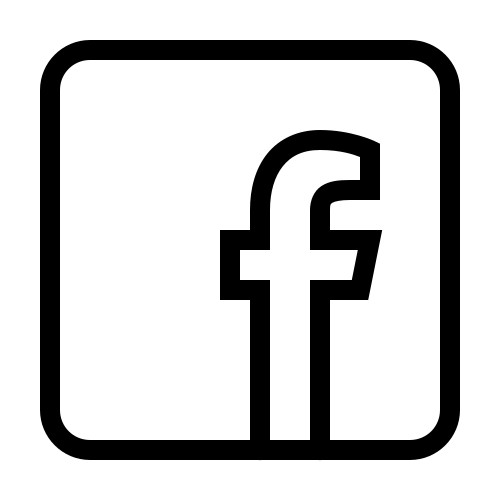
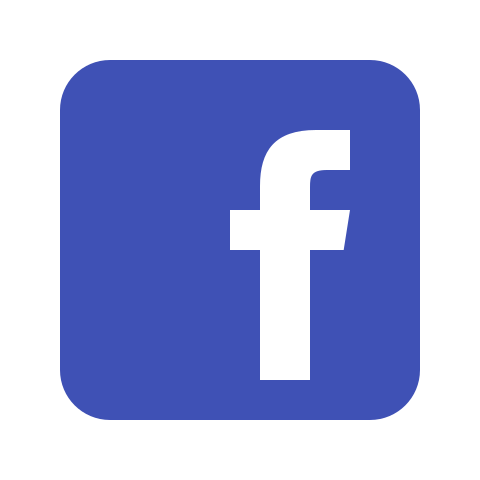
footer

diff --git a/index.html b/index.html
@@ -11,8 +11,9 @@
     <div class="container">
         <div class="wrapper">
             <div class="header">
-                <img id= "logo" src="https://cdn.cnnindonesia.com/cnnid/images/logo.png?v=10.8.6"></div>
-                <div class="nav_menu">
+                <img id= "logo" src="https://cdn.cnnindonesia.com/cnnid/images/logo.png?v=10.8.6">
+            </div>
+        <div class="nav_menu">
             <nav>
                 <ul id="nav-menu">
                     <li><a href="https://www.cnnindonesia.com/">Home</a></li>
@@ -86,8 +87,8 @@
                 <h4>IKUTI KAMI</h4>
                 <div class="social-media">
                     <a href="https://www.facebook.com/CNNindonesia"><img src="./img/fb.png" class="facebook"/></a>
-                    <a href="https://twitter.com/cnnindonesia"><icon class="fab fa-twitter"></icon></a>
-                    <a href="https://instagram.com/cnnindonesia"><icon class="fab fa-instagram"></icon></a>
+                    <a href="https://twitter.com/cnnindonesia"><img src="./img/twt.png" class="twitter"/></a>
+                    <a href="https://instagram.com/cnnindonesia"><img src="./img/ig.png" class="instagram"></a>
                 </div>
             </div>
         </div>
@@ -100,6 +101,8 @@
             </div>
 
         </div>
+
+        
     </footer>
 </div>
 </body>

diff --git a/artikel.css b/artikel.css
@@ -1,5 +1,9 @@
+
 body{
     font: 16px/28px arial, sans-serif;
+    background-color: aqua;
+    margin: 0px;
+    padding: 0px;
 }
 .content h2{
     font-style: sans-serif;
@@ -51,6 +55,7 @@ body{
 .footer {
     background-color: #272727;
     color: white;
+    width: 100%;
 
 }
 .footer{
@@ -86,22 +91,14 @@ body{
     width: 60%;
 }
 .footer2-title{
-    width: 50%;
+    width: 40%;
 }
-.footer2 .social-media a {
-    display: inline-block;
-    height: 40px;
-    width: 40px;
-    margin: 0 10px 10px 0;
-    text-align: center;
-    line-height: 40px;
-    color: #ffffff;
-    transition: all 0.5s ease;
+.footer2-col3{
+    width: 20%;
 }
-
 .footer3{
     text-align: center;
-    padding-bottom: 3px;
+    padding-top: 50px;
 }
 
 .social-media img{
